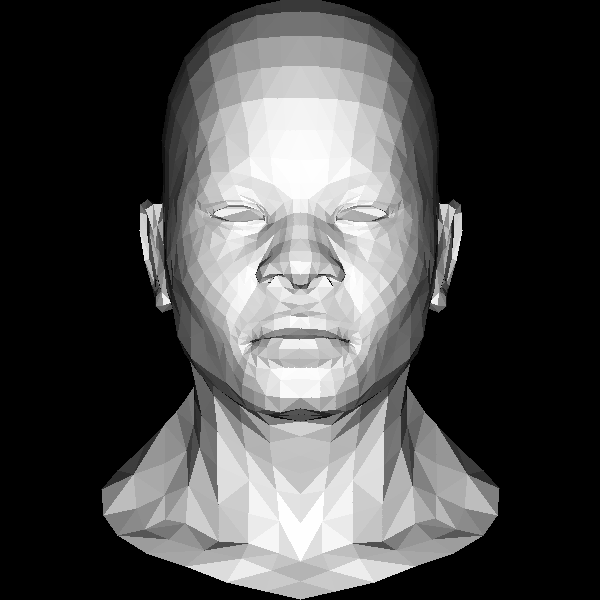
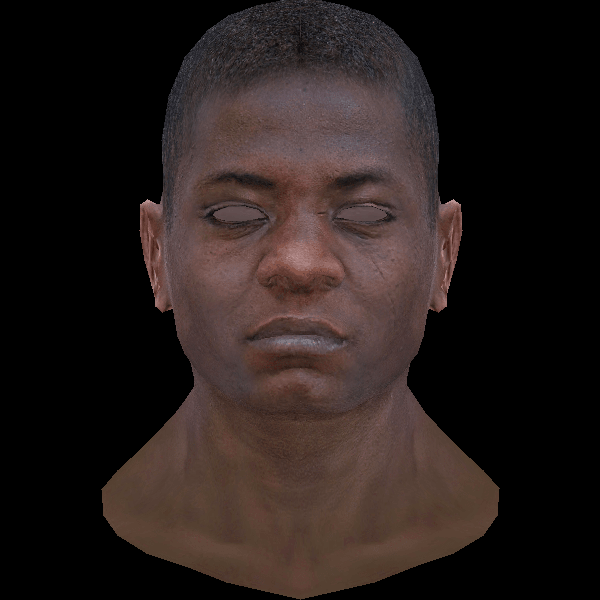
now it works with textures uwu

diff --git a/render/render.go b/render/render.go
@@ -10,9 +10,10 @@ import (
 	"github.com/hekatx/go-renderer/obj"
 )
 
-func Model(model obj.Model, width, height int, image *image.RGBA, light_dir vector3.Vector3) {
+func Model(model obj.Model, width, height int, image *image.RGBA, light_dir vector3.Vector3, texture *image.Image) {
 	screen_coords := make([]vector3.Vector3, 3)
 	var world_coords [3]vector3.Vector3
+	var texture_vertices = make([]vector3.Vector3, 3)
 
 	var zbuffer = make([]float64, width*height)
 	for i := 0; i < len(zbuffer); i++ {
@@ -21,19 +22,25 @@ func Model(model obj.Model, width, height int, image *image.RGBA, light_dir vect
 
 	for i := 0; i < len(model.Faces); i++ {
 		f := model.Faces[i]
+		ft := model.FaceTexture[i]
 
 		for j := 0; j < 3; j++ {
 			v := model.Vertices[f[j]]
 			screen_coords[j] = vector3.Vector3{X: float64(int((v.X+1.)*float64(width)/2. + .5)), Y: float64(int((v.Y+1.)*float64(height)/2. + .5)), Z: v.Z}
 			world_coords[j] = v
+
+			if len(ft) > 0 {
+				tv := ft[j]
+				texture_vertices[j] = model.Texture[tv]
+			}
 		}
 
-		n := calculateNormal(world_coords)
+		n := getNormal(world_coords)
 		intensity := n.Dot(&light_dir)
 		c := color.RGBA{uint8(intensity * 255), uint8(intensity * 255), uint8(intensity * 255), 255}
 
 		if intensity > 0 {
-			draw.Triangle(image, c, screen_coords, &zbuffer, width, height)
+			drawTriangle(image, c, screen_coords, &zbuffer, width, height, &texture_vertices, texture)
 		}
 	}
 }
@@ -56,7 +63,7 @@ func Wireframe(model obj.Model, width, height int, image *image.RGBA) {
 	}
 }
 
-func calculateNormal(pts [3]vector3.Vector3) vector3.Vector3 {
+func getNormal(pts [3]vector3.Vector3) vector3.Vector3 {
 	qr := pts[2].Sub(&pts[0])
 	qs := pts[1].Sub(&pts[0])
 	normal := qr.Cross(qs)
@@ -72,4 +79,58 @@ func FlipVertically(canvas *image.RGBA) *image.RGBA {
 		}
 	}
 	return flipped
+}
+
+func getPixelValue(img *image.Image, x int, y int) (uint8, uint8, uint8) {
+	r, g, b, _ := (*img).At(x, y).RGBA()
+	return uint8(r / 257), uint8(g / 257), uint8(b / 257)
+}
+
+func getColorFromTexture(img *image.Image, vertexTextures *[]vector3.Vector3, barycentric *vector3.Vector3) color.RGBA {
+	bo := (*img).Bounds()
+	w := bo.Max.X
+	h := bo.Max.Y
+
+	x := (*vertexTextures)[0].X*barycentric.X + (*vertexTextures)[1].X*barycentric.Y + (*vertexTextures)[2].X*barycentric.Z
+	y := (*vertexTextures)[0].Y*barycentric.X + (*vertexTextures)[1].Y*barycentric.Y + (*vertexTextures)[2].Y*barycentric.Z
+
+	r, g, b := getPixelValue(img, int(x*float64(w)), int(y*float64(h)))
+	return color.RGBA{r, g, b, 255}
+}
+
+func getBarycentricCoords(pts []vector3.Vector3, P *vector3.Vector3) vector3.Vector3 {
+	v0 := vector3.Vector3{X: float64(pts[1].X - pts[0].X), Y: float64(pts[2].X - pts[0].X), Z: float64(pts[0].X - P.X)}
+	v1 := vector3.Vector3{X: float64(pts[1].Y - pts[0].Y), Y: float64(pts[2].Y - pts[0].Y), Z: float64(pts[0].Y - P.Y)}
+	u := v0.Cross(&v1)
+	if math.Abs(u.Z) > 1e-2 {
+		return vector3.Vector3{X: 1.0 - (u.X+u.Y)/u.Z, Y: u.X / u.Z, Z: u.Y / u.Z}
+	}
+	return vector3.Vector3{X: -1., Y: 1., Z: 1.}
+}
+
+func isPointOutsideTriangle(W1, W2, w3 float64) bool {
+	return W1 < 0 || W2 < 0 || w3 < 0
+}
+
+func drawTriangle(i *image.RGBA, c color.RGBA, v []vector3.Vector3, zb *[]float64, w, h int, tvs *[]vector3.Vector3, t *image.Image) {
+	p := vector3.Vector3{}
+	for y := 0; y < i.Bounds().Max.Y; y++ {
+		for x := 0; x < i.Bounds().Max.X; x++ {
+			p.X = float64(x)
+			p.Y = float64(y)
+			bc := getBarycentricCoords(v, &p)
+
+			if isPointOutsideTriangle(bc.X, bc.Y, bc.Z) {
+				continue
+			}
+
+			p.Z = (bc.X * v[0].Z) + (bc.Y * v[1].Z) + (bc.Z * v[2].Z)
+
+			if (*zb)[int(p.X+p.Y*float64(w))] < p.Z {
+				(*zb)[int(p.X+p.Y*float64(w))] = p.Z
+				cft := getColorFromTexture(t, tvs, &bc)
+				i.Set(int(p.X), int(p.Y), cft)
+			}
+		}
+	}
 }

diff --git a/obj/obj.go b/obj/obj.go
@@ -12,8 +12,10 @@ import (
 )
 
 type Model struct {
-	Vertices []vector3.Vector3
-	Faces    [][]int
+	Vertices    []vector3.Vector3
+	Faces       [][]int
+	Texture     []vector3.Vector3
+	FaceTexture [][]int
 }
 
 func check(e error) {
@@ -24,11 +26,13 @@ func check(e error) {
 
 func Decode(path string) Model {
 	var geometryTypes = struct {
-		Vertex string
-		Face   string
+		Vertex  string
+		Face    string
+		Texture string
 	}{
-		Vertex: "v",
-		Face:   "f",
+		Vertex:  "v",
+		Face:    "f",
+		Texture: "vt",
 	}
 
 	// Max capacity of the buffer. Pump up if .obj file is bigger
@@ -52,7 +56,7 @@ func Decode(path string) Model {
 			line := strings.Fields(scanner.Text())
 			dataType := line[0]
 			if dataType == geometryTypes.Vertex {
-				vertices, e := stringToFloat(line[1:])
+				vertices, e := stringToFloatVector3(line[1:])
 
 				check(e)
 
@@ -60,13 +64,22 @@ func Decode(path string) Model {
 			}
 
 			if dataType == geometryTypes.Face {
-				vi, e := parseFaces(line[1:])
+				vi, vt, e := parseFaces(line[1:])
 
 				if e != nil {
 					check(e)
 				}
 
 				model.Faces = append(model.Faces, vi)
+				model.FaceTexture = append(model.FaceTexture, vt)
+			}
+
+			if dataType == geometryTypes.Texture {
+				v, e := stringToFloatVector3(line[1:])
+
+				check(e)
+
+				model.Texture = append(model.Texture, v)
 			}
 		}
 	}
@@ -78,31 +91,37 @@ func Decode(path string) Model {
 	return model
 }
 
-func stringToFloat(arr []string) (vector3.Vector3, error) {
+func stringToFloatVector3(arr []string) (vector3.Vector3, error) {
 	fa := make([]float64, 0, len(arr))
 	for _, a := range arr {
-		f, e := strconv.ParseFloat(a, 32)
+		f, e := strconv.ParseFloat(a, 64)
 		if e != nil {
 			return *vector3.New(0, 0, 0), e
 		}
-		fa = append(fa, float64(f))
+		fa = append(fa, f)
 	}
 
 	return *vector3.New(fa[0], fa[1], fa[2]), nil
 }
 
-func parseFaces(vNormalIndices []string) ([]int, error) {
+func parseFaces(vNormalIndices []string) ([]int, []int, error) {
 	vIndices := make([]int, 0, len(vNormalIndices))
+	var vtextures []int
 
 	for _, vn := range vNormalIndices {
-		vIndex := strings.Split(string(vn), "/")[0]
+		indices := strings.Split(string(vn), "/")
+		vIndex := indices[0]
 		if string(vIndex[0]) == "/" {
-			return nil, errors.New("vNormalIndices have wrong formatting")
+			return nil, nil, errors.New("vNormalIndices have wrong formatting")
 		}
 		vi, _ := strconv.Atoi(vIndex)
+		if len(indices) > 1 {
+			vt, _ := strconv.Atoi(indices[1])
+			vtextures = append(vtextures, vt-1)
+		}
 		// Vertex indices are not 1-based so we must subtract 1 for every index
 		vIndices = append(vIndices, vi-1)
 	}
 
-	return vIndices, nil
+	return vIndices, vtextures, nil
 }

diff --git a/draw/draw.go b/draw/draw.go
@@ -4,9 +4,6 @@ import (
 	"image"
 	"image/color"
 	"math"
-	"sort"
-
-	"github.com/deeean/go-vector/vector3"
 )
 
 type Point struct {
@@ -16,8 +13,8 @@ type Point struct {
 }
 
 type BarycentricCoordinates struct {
-	w1 float64
-	w2 float64
+	W1 float64
+	W2 float64
 }
 
 func Line(x0, y0, x1, y1 float64, i *image.RGBA, c color.RGBA) {
@@ -75,52 +72,4 @@ func NewImage(w, h int) *image.RGBA {
 	}
 
 	return img
-}
-
-func barycentric(pts []vector3.Vector3, P *vector3.Vector3) vector3.Vector3 {
-	v0 := vector3.Vector3{X: float64(pts[1].X - pts[0].X), Y: float64(pts[2].X - pts[0].X), Z: float64(pts[0].X - P.X)}
-	v1 := vector3.Vector3{X: float64(pts[1].Y - pts[0].Y), Y: float64(pts[2].Y - pts[0].Y), Z: float64(pts[0].Y - P.Y)}
-	u := v0.Cross(&v1)
-	if math.Abs(u.Z) > 1e-2 {
-		return vector3.Vector3{X: 1.0 - (u.X+u.Y)/u.Z, Y: u.X / u.Z, Z: u.Y / u.Z}
-	}
-	return vector3.Vector3{X: -1., Y: 1., Z: 1.}
-}
-
-func getBarycentricCoords(p, a, b, c Point) BarycentricCoordinates {
-	var bc BarycentricCoordinates
-	h := c.Y - a.Y
-	bc.w1 = ((a.X * h) + ((p.Y - a.Y) * (c.X - a.X)) - (p.X * h)) / (((b.Y - a.Y) * (c.X - a.X)) - ((b.X - a.X) * h))
-	bc.w2 = (p.Y - a.Y - (bc.w1 * (b.Y - a.Y))) / h
-	return bc
-}
-
-func isPointOutsideTriangle(w1, w2, w3 float64) bool {
-	return w1 < 0 || w2 < 0 || w3 < 0
-}
-
-func Triangle(i *image.RGBA, c color.RGBA, v []vector3.Vector3, zb *[]float64, w, h int) {
-	sort.Slice(v, func(i, j int) bool {
-		return v[i].Y < v[j].Y
-	})
-
-	p := vector3.Vector3{}
-	for y := 0; y < i.Bounds().Max.Y; y++ {
-		for x := 0; x < i.Bounds().Max.X; x++ {
-			p.X = float64(x)
-			p.Y = float64(y)
-			bc := barycentric(v, &p)
-
-			if isPointOutsideTriangle(bc.X, bc.Y, bc.Z) {
-				continue
-			}
-
-			p.Z = (bc.X * v[0].Z) + (bc.Y * v[1].Z) + (bc.Z * v[2].Z)
-
-			if (*zb)[int(p.X+p.Y*float64(w))] < p.Z {
-				(*zb)[int(p.X+p.Y*float64(w))] = p.Z
-				i.Set(int(p.X), int(p.Y), image.NewUniform(c))
-			}
-		}
-	}
 }

diff --git a/main.go b/main.go
@@ -17,9 +17,12 @@ func main() {
 	base := draw.NewImage(width, height)
 
 	head_model := obj.Decode("./african_head.obj")
+	textureReader, _ := os.Open("./african_head_diffuse.png")
+
+	texture, _ := png.Decode(textureReader)
 
 	light_dir := vector3.New(0., 0., -1.)
-	render.Model(head_model, width, height, base, *light_dir)
+	render.Model(head_model, width, height, base, *light_dir, &texture)
 
 	f, _ := os.Create("image.png")
 	err := png.Encode(f, render.FlipVertically(base))
